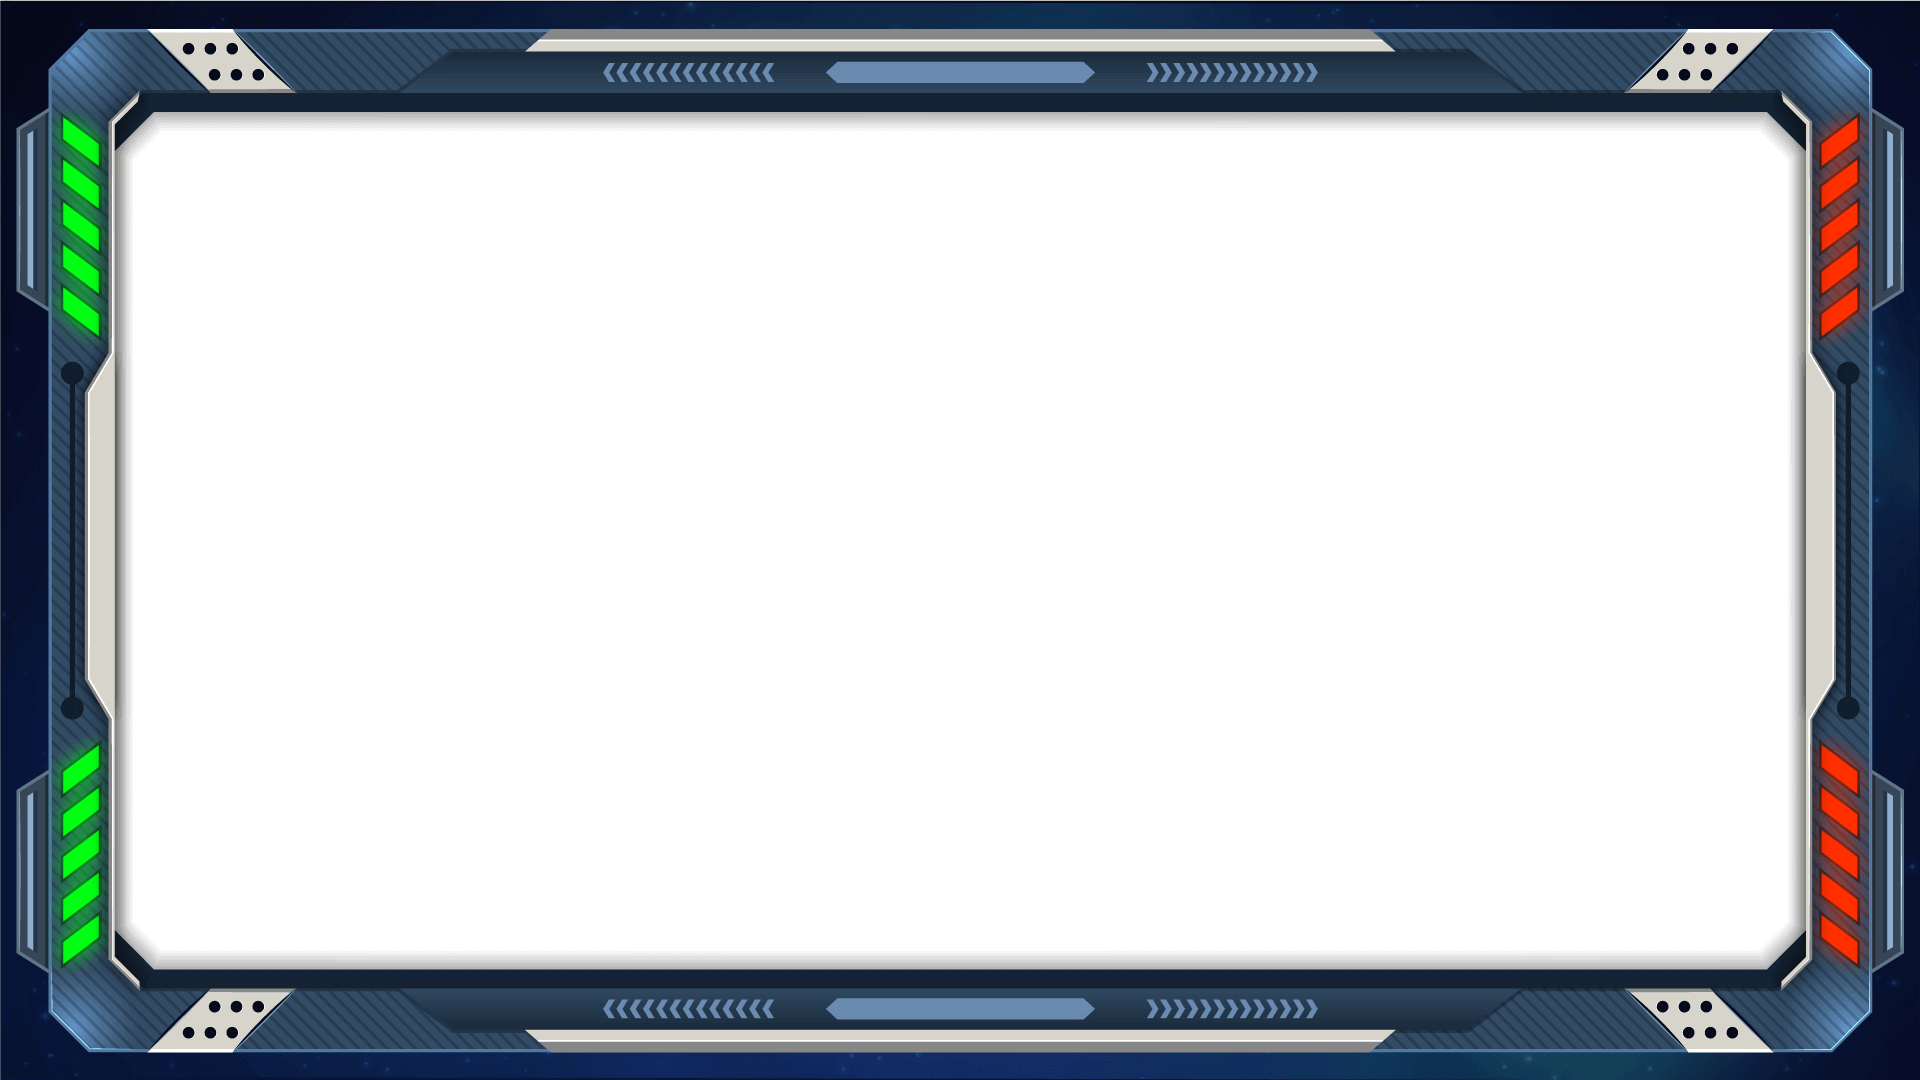
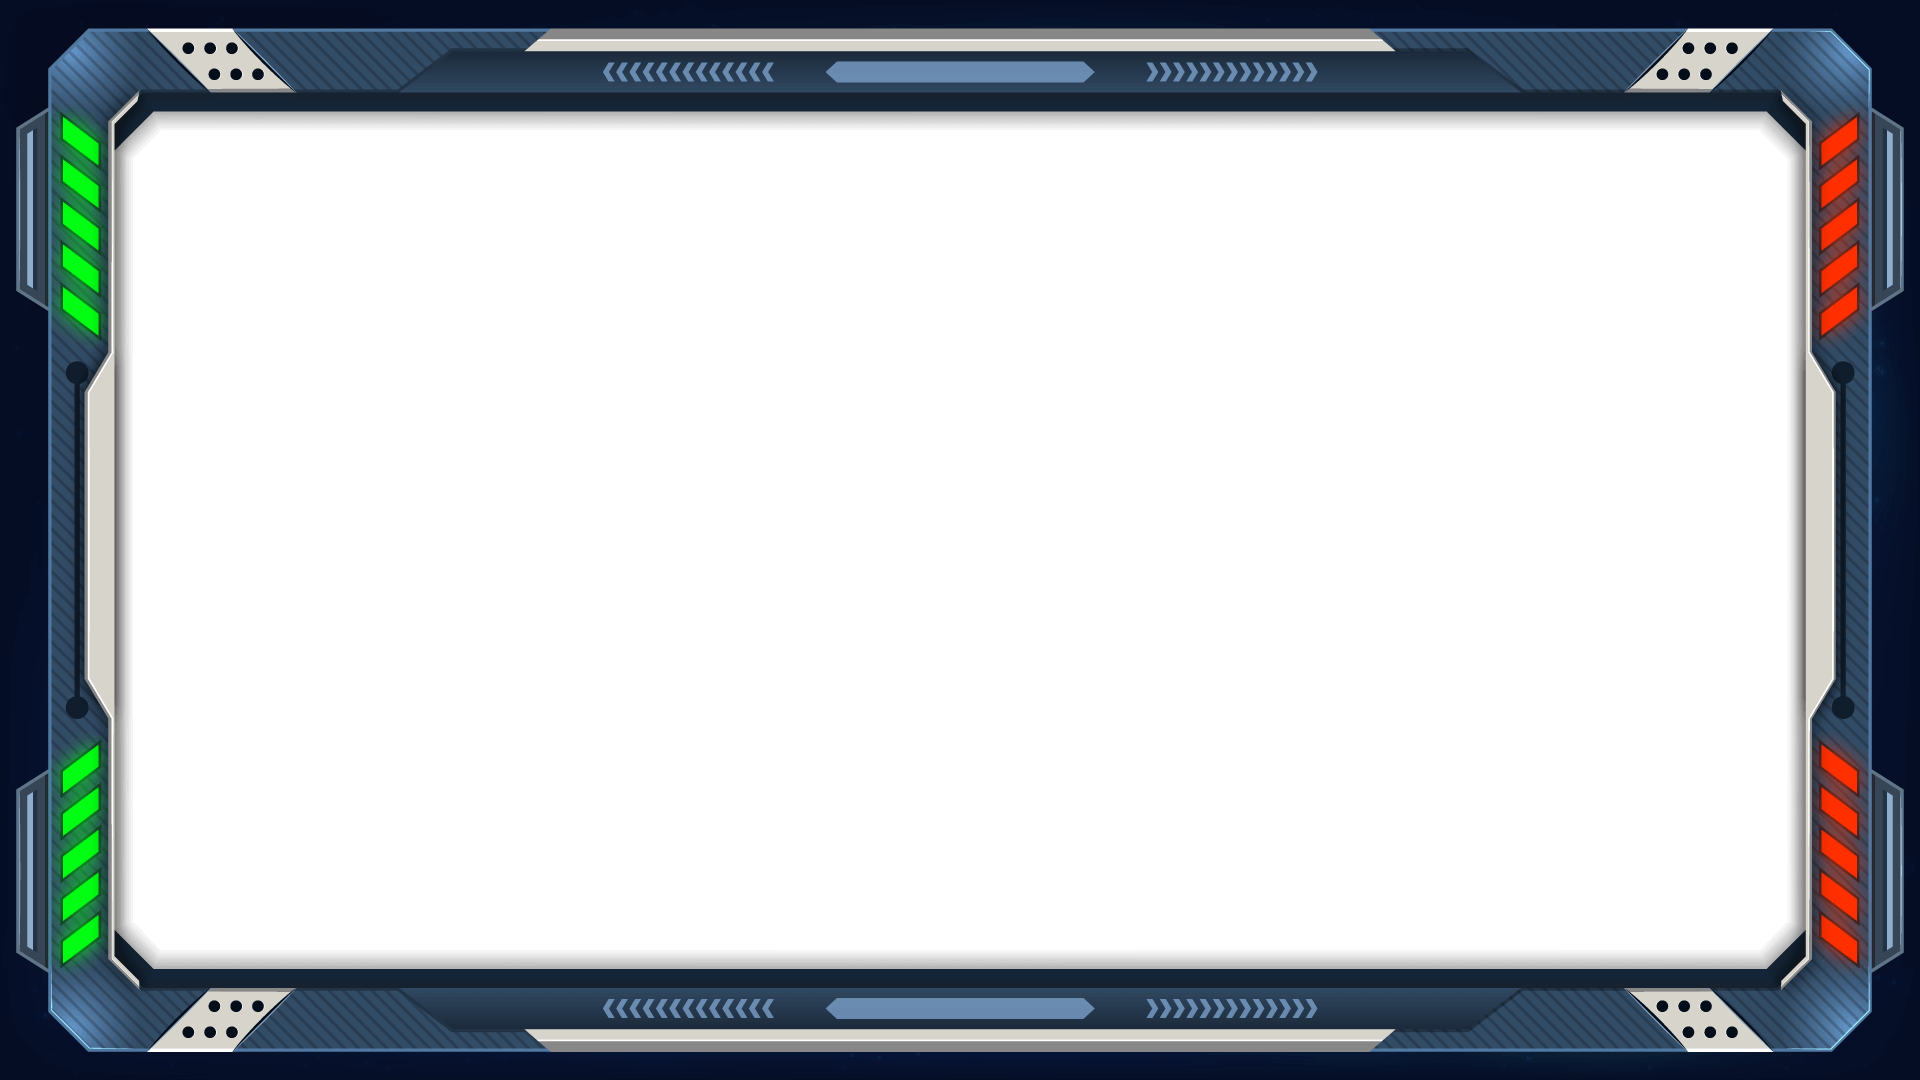
popup

diff --git a/assets/scripts/ScreenMainMenu.js b/assets/scripts/ScreenMainMenu.js
@@ -69,7 +69,8 @@ NORD.ScreenMainMenu = function(config) {
     texture: 'mainmenubg',
     aX: 0.5,
     aY: 0.5,
-    scaleXY: 0.465
+    scaleX: 0.3746,
+    scaleY: 0.465,
   });
   this.containerSwitchers = new PIXI.Container();
   this.addChild(this.containerSwitchers); // this.containerSwitchers.y = - 200;
@@ -79,7 +80,7 @@ NORD.ScreenMainMenu = function(config) {
     texture: 'bgLine',
     aX: 0.5,
     aY: 0.5,
-    y: bg.width / 2.1,
+    y: bg.width / 1.7,
   });
 
   /*********************************************************************************Game Logo**************************************************************************************************/
@@ -1627,7 +1628,8 @@ NORD.randomNamePopup = function(config) {
     texture: 'mainmenubg',
     aX: 0.5,
     aY: 0.5,
-    scaleXY: 0.55
+    scaleX: 0.3746,
+    scaleY: 0.465,
   });
 
   this.addChild(this.backBG);
@@ -1891,7 +1893,8 @@ NORD.subModeSelectionPopup = function(config) {
     texture: 'mainmenubg',
     aX: 0.5,
     aY: 0.5,
-    scaleXY: 0.465
+    scaleX: 0.3746,
+    scaleY: 0.465,
   });
 
   var bgLine = Util.createSprite({
@@ -1899,7 +1902,7 @@ NORD.subModeSelectionPopup = function(config) {
     texture: 'bgLine',
     aX: 0.5,
     aY: 0.5,
-    y: this.bg.width / 2.1,
+    y: this.bg.width / 1.7,
   });
 
   var bgLine1 = Util.createSprite({
@@ -1907,7 +1910,7 @@ NORD.subModeSelectionPopup = function(config) {
     texture: 'bgLine',
     aX: 0.5,
     aY: 0.5,
-    y: -this.bg.width / 2.1,
+    y: -this.bg.width / 1.7,
   });
   bgLine1.angle = 180;
 
@@ -2676,7 +2679,8 @@ NORD.PanelTutorial = function(config) {
     texture: 'mainmenubg',
     aX: 0.5,
     aY: 0.5,
-    scaleXY: 0.465
+    scaleX: 0.3746,
+    scaleY: 0.465,
   });
 
   var bgLine = Util.createSprite({
@@ -2684,7 +2688,7 @@ NORD.PanelTutorial = function(config) {
     texture: 'bgLine',
     aX: 0.5,
     aY: 0.5,
-    y: this.bg.width / 2.1,
+    y: this.bg.width / 1.7,
   });
 
   var bgLine1 = Util.createSprite({
@@ -2692,7 +2696,7 @@ NORD.PanelTutorial = function(config) {
     texture: 'bgLine',
     aX: 0.5,
     aY: 0.5,
-    y: -this.bg.width / 2.1,
+    y: -this.bg.width / 1.7,
   });
   bgLine1.angle = 180;
 

diff --git a/assets/scripts/Core.js b/assets/scripts/Core.js
@@ -14,7 +14,7 @@ NORD.GUIManager = null;
 NORD.app = null;
 NORD.game = null;
 
-NORD.run = function () {
+NORD.run = function() {
   NORD.renderer = PIXI.autoDetectRenderer(100, 100, {
     antialias: true,
     transparent: false,
@@ -23,7 +23,7 @@ NORD.run = function () {
     roundPixels: false
   });
   document.getElementById('game_container').appendChild(NORD.renderer.view);
-  NORD.renderer.backgroundColor = 0x00003A; // NORD.renderer.backgroundColor = 0xCCCCCC;
+  NORD.renderer.backgroundColor = 0x060f25; // NORD.renderer.backgroundColor = 0xCCCCCC;
 
   NORD.renderer.view.style.position = "absolute";
   NORD.renderer.view.style.top = "0px";
@@ -41,8 +41,8 @@ NORD.run = function () {
   requestAnimationFrame(NORD.app.loop);
 };
 
-document.addEventListener("DOMContentLoaded", function () {
-  String.prototype.splice = function (idx, rem, str) {
+document.addEventListener("DOMContentLoaded", function() {
+  String.prototype.splice = function(idx, rem, str) {
     return this.slice(0, idx) + str + this.slice(idx + Math.abs(rem));
   };
 
@@ -51,15 +51,15 @@ document.addEventListener("DOMContentLoaded", function () {
 // ======================================================================================================================================== //
 // ======================================================================================================================================== //
 
-window.onfocus = function () {
+window.onfocus = function() {
   if (NORD.app != null) NORD.app.windowFocusChange(true);
 };
 
-window.onblur = function () {
+window.onblur = function() {
   if (NORD.app != null) NORD.app.windowFocusChange(false);
 };
 
-window.addEventListener("beforeunload", function (e) {
+window.addEventListener("beforeunload", function(e) {
   if (NORD.game.field.state.getState().gamePhase == 'GAME') {
     NORD.app.apiCallback('statistics', 'exit');
   }

diff --git a/assets/scripts/LoadingPopup.js b/assets/scripts/LoadingPopup.js
@@ -23,14 +23,15 @@ NORD.LoadingPopup = function(config) {
     texture: 'mainmenubg',
     aX: 0.5,
     aY: 0.5,
-    scaleXY: 0.465
+    scaleX: 0.3746,
+    scaleY: 0.465,
   });
   var bgLine = Util.createSprite({
     parent: this.bg,
     texture: 'bgLine',
     aX: 0.5,
     aY: 0.5,
-    y: this.bg.width / 2.1,
+    y: this.bg.width / 1.7,
   });
 
   var bgLine1 = Util.createSprite({
@@ -38,7 +39,7 @@ NORD.LoadingPopup = function(config) {
     texture: 'bgLine',
     aX: 0.5,
     aY: 0.5,
-    y: -this.bg.width / 2.1,
+    y: -this.bg.width / 1.7,
   });
   bgLine1.angle = 180;
 

diff --git a/assets/scripts/Gui.js b/assets/scripts/Gui.js
@@ -41,7 +41,7 @@ NORD.GUI.GUIManager.prototype.constructor = NORD.GUI.GUIManager;
 
 NORD.GUI.GUIManager.prototype.initViewOver = function() {
   var self = this;
-  var color = 0xFFFFFF;
+  var color = 0x060f25;
   this.containerViewOver = new PIXI.Container();
   this.rootContainer.addChild(this.containerViewOver);
   this.overTop = createOver();
